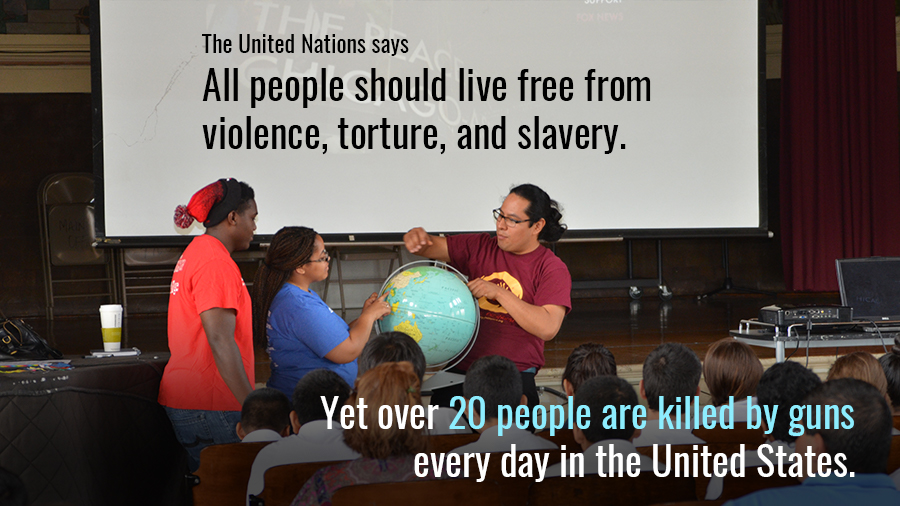
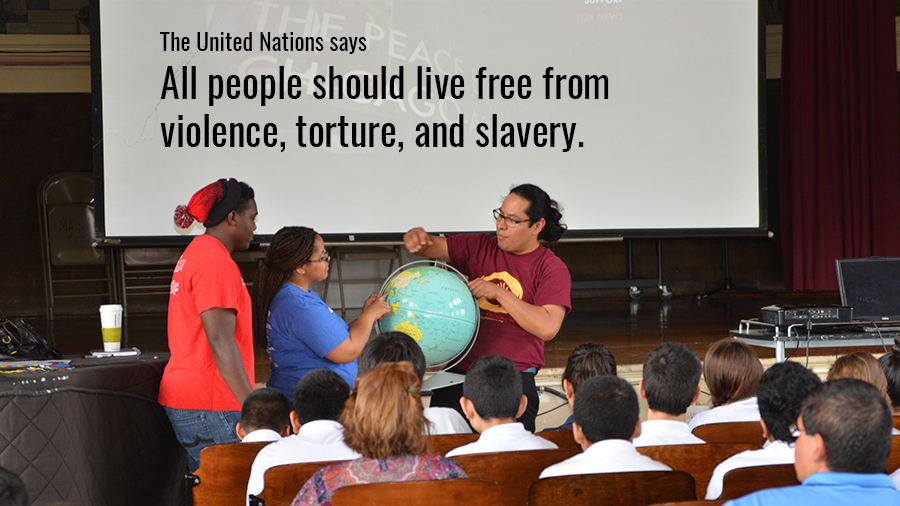
adding example

diff --git a/index.html b/index.html
@@ -54,6 +54,19 @@
 		</div>
 	</div>
 
+    <div class="row" style="margin-top: 2em; margin-bottom: 2em;">
+      <div class="large-12 columns">
+        <h3>SAFE COMMUNITIES</h3>
+        <p>Group media reveal test</p>
+      </div>
+      <div class="large-12 columns">
+        <div class="twentytwenty-container">
+          <img src="img/communities3.jpg" />
+          <img src="img/communities4.jpg" />
+        </div>
+      </div>
+    </div>
+
     <div class="row" style="margin-top: 2em;">
       <div class="large-12 columns">
         <h3>EDUCATION</h3>
